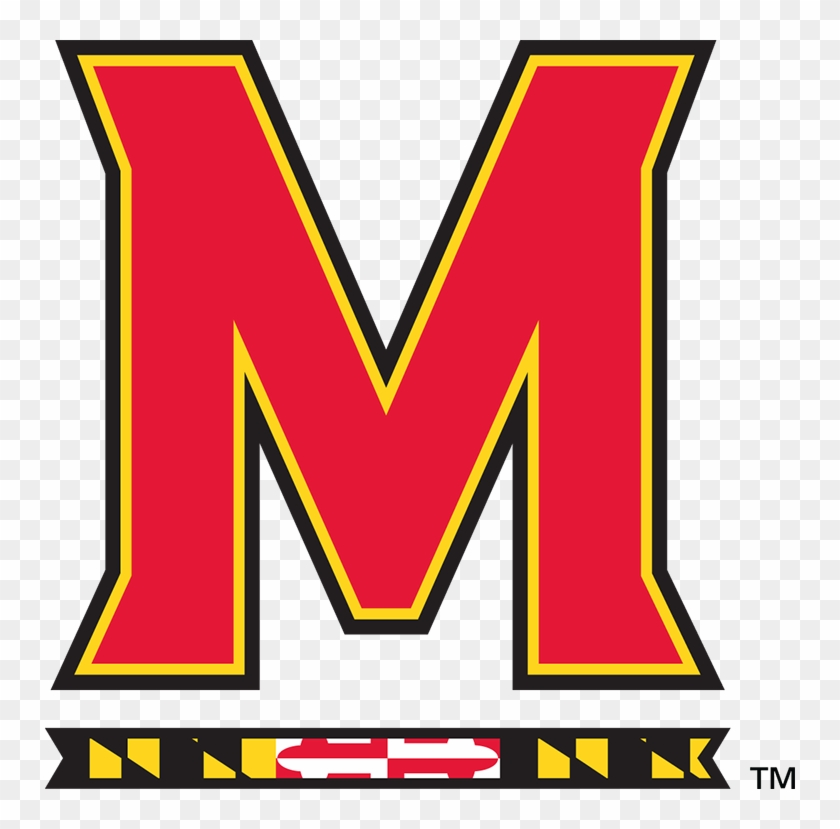
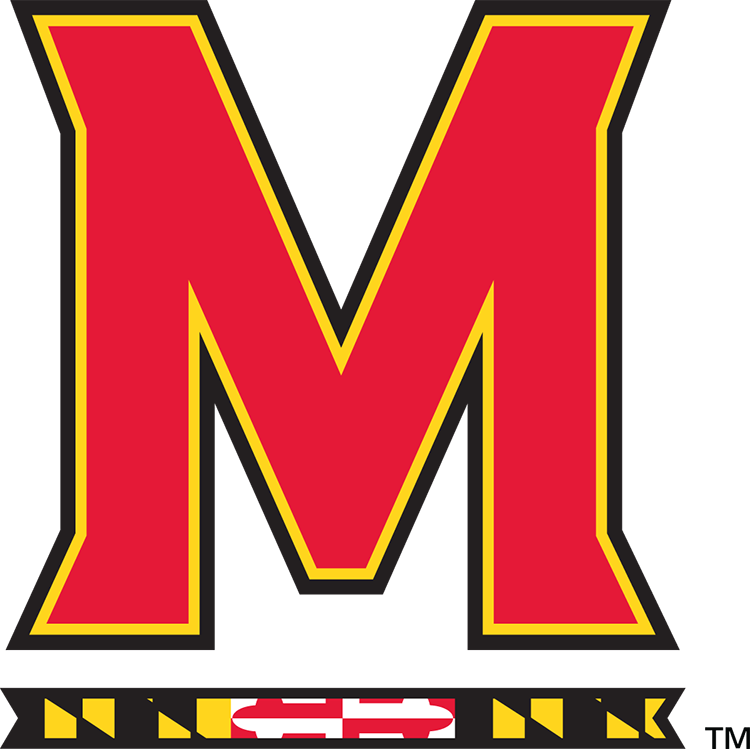
Change png size

diff --git a/index.md b/index.md
@@ -4,7 +4,7 @@ title: Home
 ---
 # Welcome
 
-I am a modeling researcher and project manager at the National Consortium for the Study of Terrorism and Responses to Terrorism [[START]](https://www.start.umd.edu) at the University of Maryland, College Park (UMD)![Go Terrapins!](umd.png). My reasearch focus on the application of statistical, computational, and mathematical methodologies to analyze and model the behavior of violent non-state actors, including natural language processing, machine learning, and stochastic processes. I have experience researching and managing projects across a variety of domains and funders including including the Department of Homeland Security,[^1]<sup>,</sup>[^2] Department of Defense,[^3] Department of State,[^4] US Coast Guard,[^5] and the Defense Advanced Research Projects Agency[^6].
+I am a modeling researcher and project manager at the National Consortium for the Study of Terrorism and Responses to Terrorism [[START]](https://www.start.umd.edu) at the University of Maryland, College Park (UMD)![Go Terrapins!](umd.png =  20x20). My reasearch focus on the application of statistical, computational, and mathematical methodologies to analyze and model the behavior of violent non-state actors, including natural language processing, machine learning, and stochastic processes. I have experience researching and managing projects across a variety of domains and funders including including the Department of Homeland Security,[^1]<sup>,</sup>[^2] Department of Defense,[^3] Department of State,[^4] US Coast Guard,[^5] and the Defense Advanced Research Projects Agency[^6].
 
 I received my B.A. in Mathematics with distinction and Physics with distinction from Connecticut College in 2019.
 
